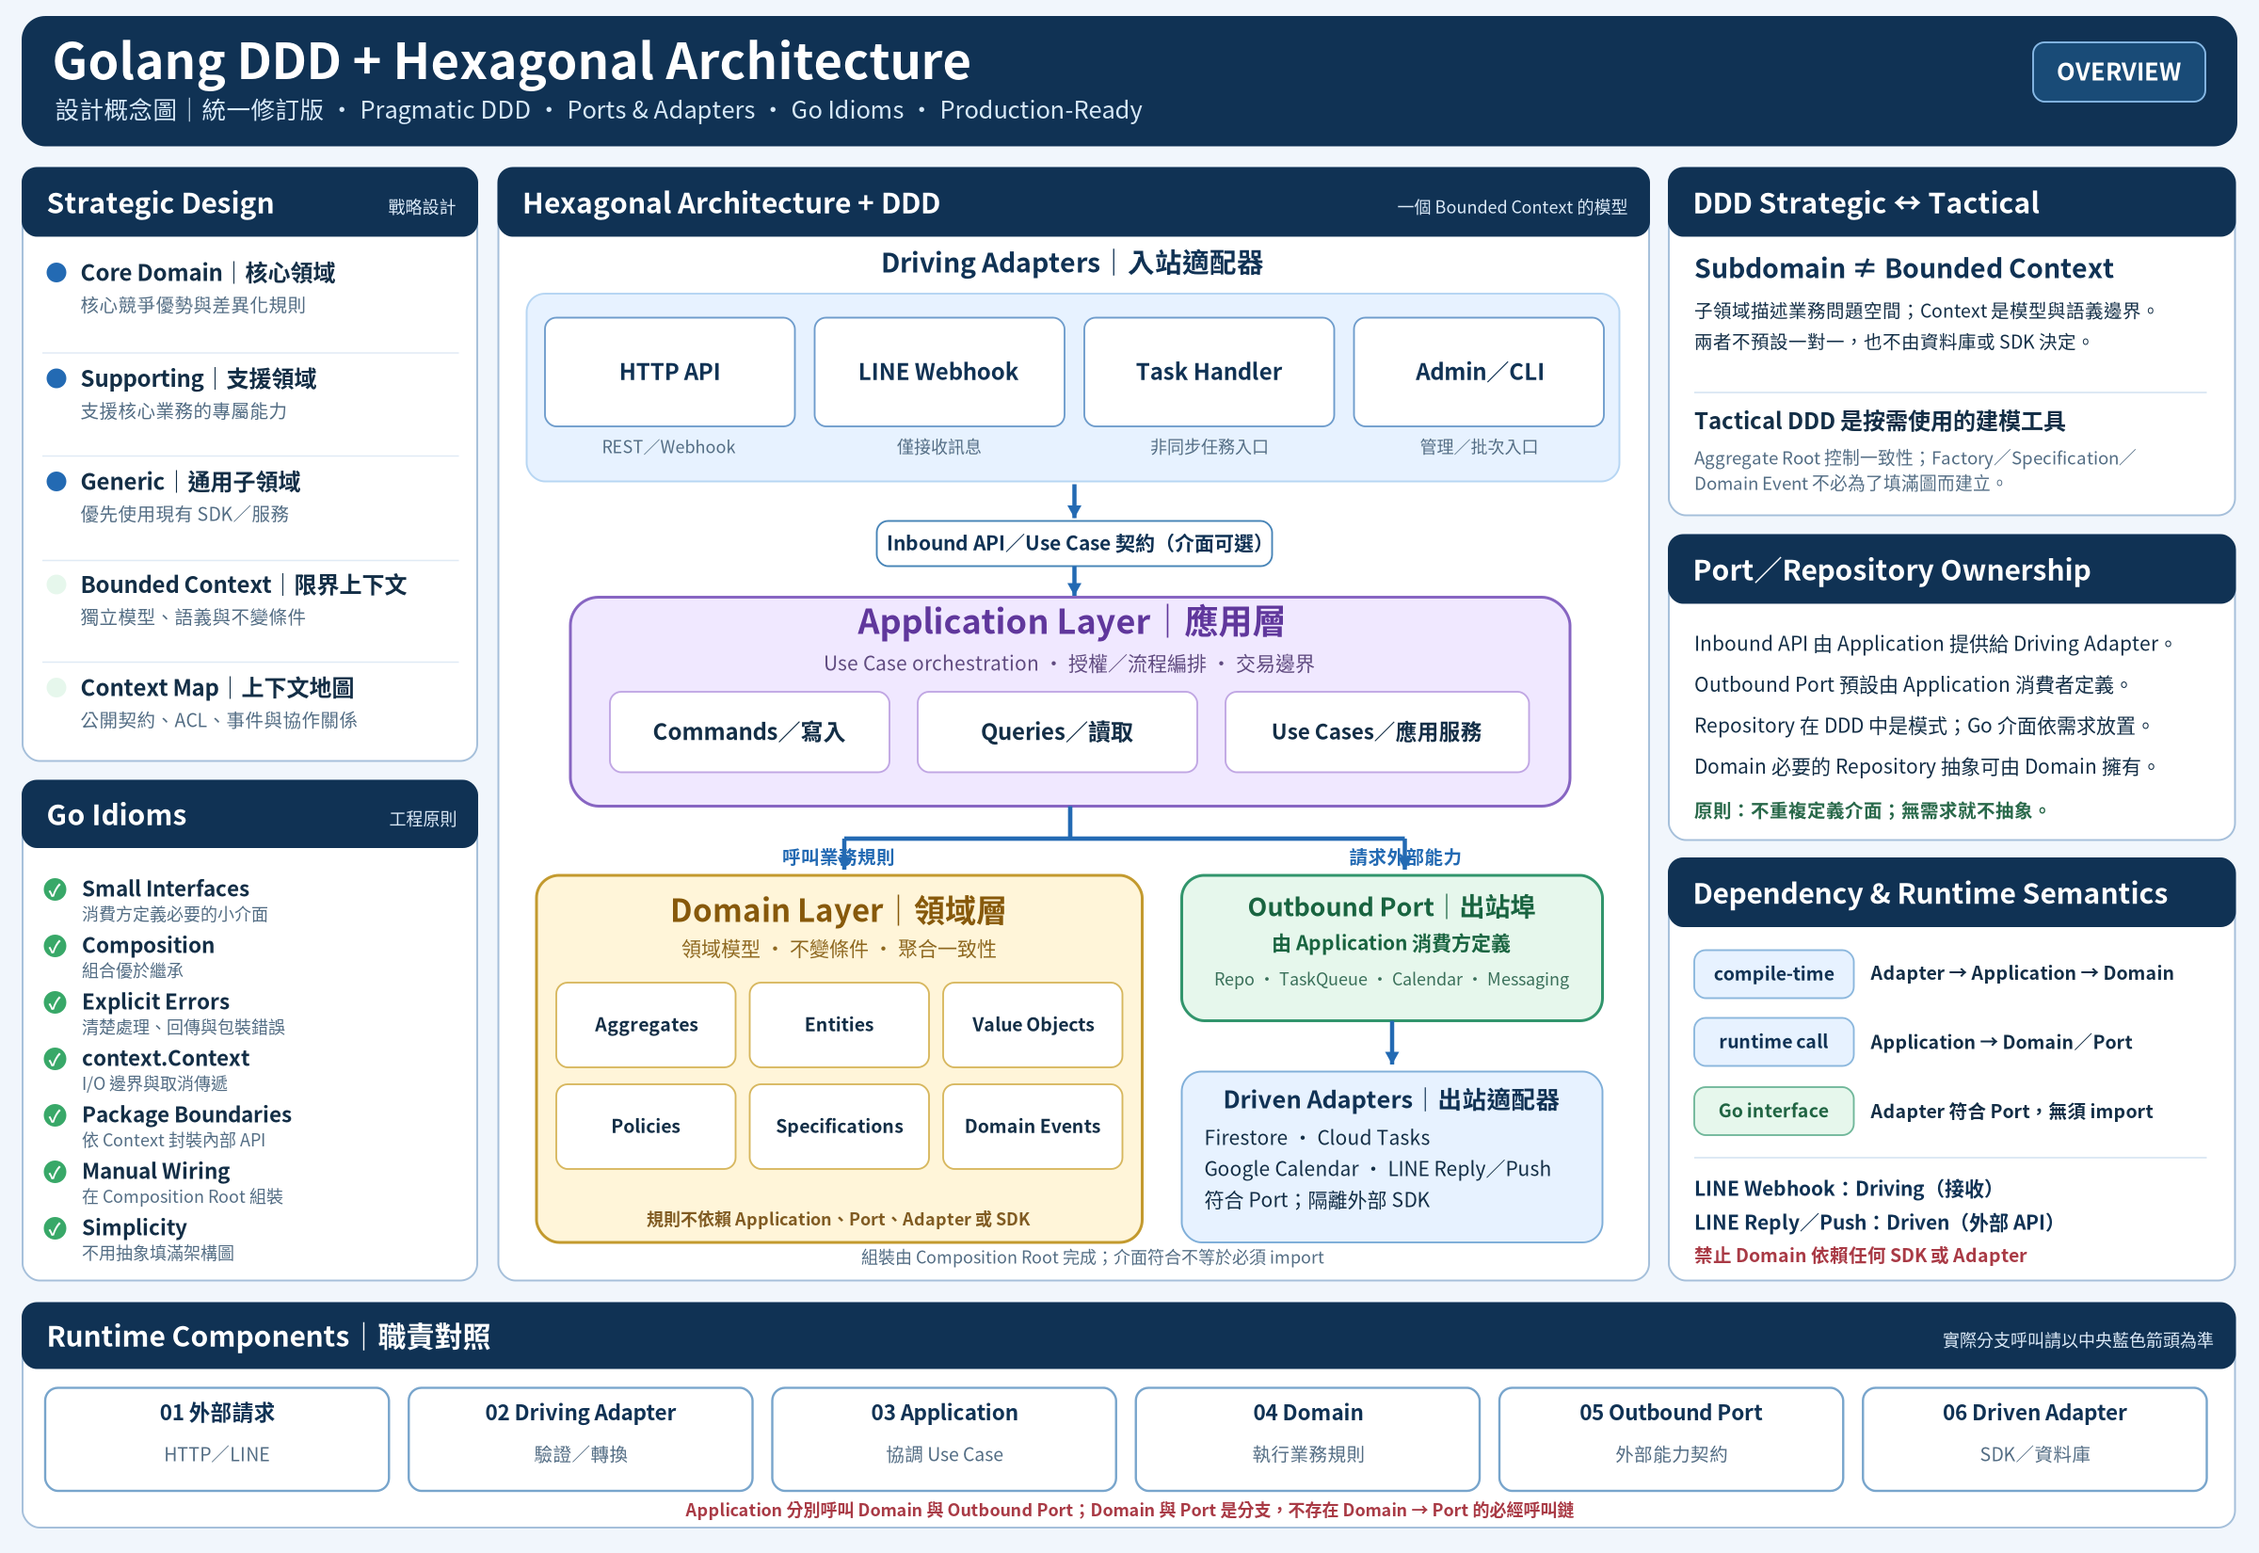
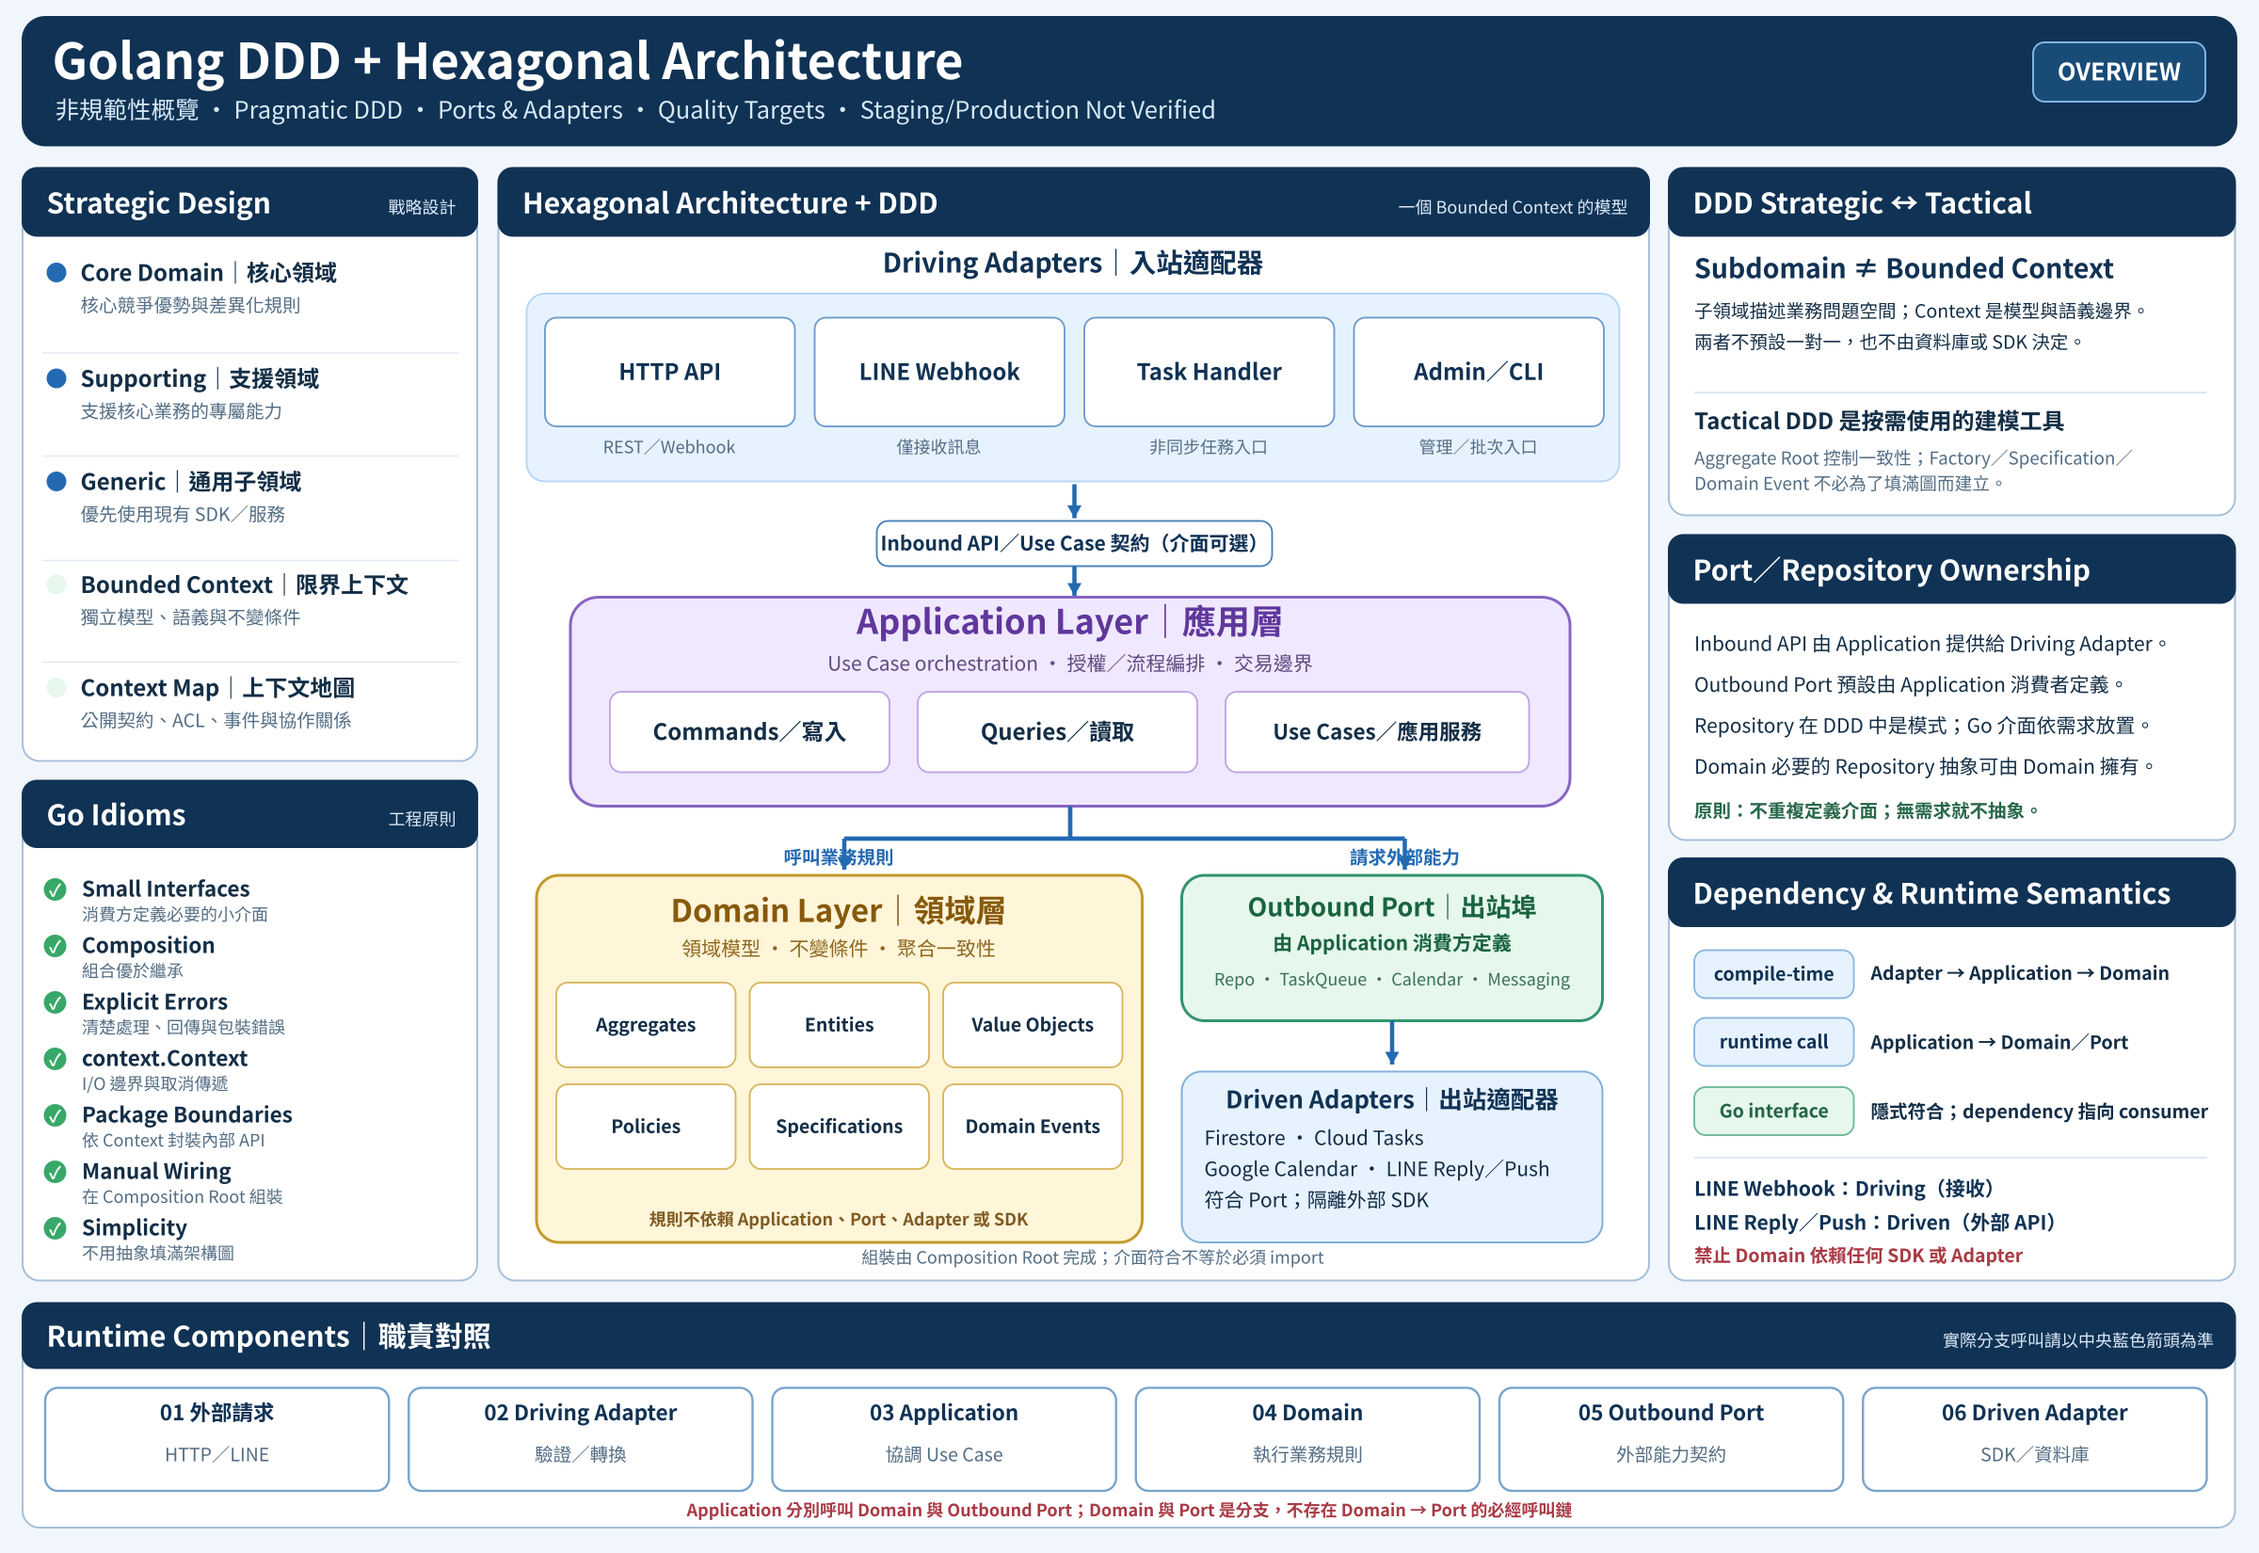
docs: align architecture assets and guards

diff --git a/tests/architecture/design_contract_test.go b/tests/architecture/design_contract_test.go
@@ -88,15 +88,51 @@ func TestDesignContract(t *testing.T) {
 	if config.Width != 2400 || config.Height != 1650 {
 		t.Fatalf("architecture overview asset size = %dx%d, want 2400x1650", config.Width, config.Height)
 	}
[2 lines of base64/hex data omitted]
 
-	svgPath := filepath.Join(root, "docs", "assets", "architecture", "go-ddd-hexagonal-architecture-overview.svg")
-	svgData, err := os.ReadFile(svgPath)
-	if err != nil {
-		t.Fatal(err)
+	assets := []struct {
+		name                   string
+		hash                   string
+		width, height, viewBox string
+		required               []string
+	}{
+		{
[1 lines of base64/hex data omitted]
+			width: "1600", height: "1100", viewBox: "0 0 1600 1100",
+			required: []string{"非規範性概覽", "Staging/Production Not Verified", "dependency 指向 consumer"},
+		},
+		{
[1 lines of base64/hex data omitted]
+			width: "3600", height: "2560", viewBox: "0 0 3600 2560",
+			required: []string{"非規範性參考圖", "Layer-first Modular Monolith", "internal/bootstrap"},
+		},
+		{
[1 lines of base64/hex data omitted]
+			width: "3200px", height: "2100px", viewBox: "0 0 3200 2100",
+			required: []string{"非規範性", "Layer-first Structure", "Staging/Production Not Verified", "unknown / manual reconciliation"},
+		},
 	}
[1 lines of base64/hex data omitted]
-	validateArchitectureSVG(t, svgData)
+	for _, asset := range assets {
+		t.Run(asset.name, func(t *testing.T) {
+			data, err := os.ReadFile(filepath.Join(root, "docs", "assets", "architecture", asset.name))
+			if err != nil {
+				t.Fatal(err)
+			}
+			assertSHA256(t, data, asset.hash)
+			validateArchitectureSVG(t, data, asset.width, asset.height, asset.viewBox)
+			text := string(data)
+			for _, marker := range asset.required {
+				if !strings.Contains(text, marker) {
+					t.Errorf("%s is missing semantic marker %q", asset.name, marker)
+				}
+			}
+			for _, marker := range []string{"Codex 可執行架構藍圖", "示意是規範性概念圖", "Production-Ready", "cmd/server/main.go", "internal/&lt;context&gt;"} {
+				if strings.Contains(text, marker) {
+					t.Errorf("%s contains obsolete or misleading marker %q", asset.name, marker)
+				}
+			}
+		})
+	}
 }
 
 func assertSHA256(t *testing.T, data []byte, want string) {
@@ -106,10 +142,12 @@ func assertSHA256(t *testing.T, data []byte, want string) {
 	}
 }
 
-func validateArchitectureSVG(t *testing.T, data []byte) {
+func validateArchitectureSVG(t *testing.T, data []byte, width, height, viewBox string) {
 	t.Helper()
 	decoder := xml.NewDecoder(bytes.NewReader(data))
 	rootSeen := false
+	titleSeen := false
+	descSeen := false
 	for {
 		token, err := decoder.Token()
 		if err == io.EOF {
@@ -131,11 +169,20 @@ func validateArchitectureSVG(t *testing.T, data []byte) {
 			for _, attr := range start.Attr {
 				attrs[attr.Name.Local] = attr.Value
 			}
-			for name, want := range map[string]string{"width": "1600", "height": "1100", "viewBox": "0 0 1600 1100"} {
+			for name, want := range map[string]string{"width": width, "height": height, "viewBox": viewBox, "role": "img", "lang": "zh-Hant"} {
 				if attrs[name] != want {
 					t.Fatalf("architecture blueprint SVG %s = %q, want %q", name, attrs[name], want)
 				}
 			}
+			if strings.TrimSpace(attrs["aria-label"]) == "" {
+				t.Fatal("architecture blueprint SVG must have a non-empty aria-label")
+			}
+		}
+		if start.Name.Local == "title" {
+			titleSeen = true
+		}
+		if start.Name.Local == "desc" {
+			descSeen = true
 		}
 		if start.Name.Local == "script" || start.Name.Local == "foreignObject" {
 			t.Fatalf("architecture blueprint SVG must not contain active element %q", start.Name.Local)
@@ -155,5 +202,8 @@ func validateArchitectureSVG(t *testing.T, data []byte) {
 	}
 	if !rootSeen {
 		t.Fatal("architecture blueprint SVG has no root element")
+	}
+	if !titleSeen || !descSeen {
+		t.Fatal("architecture blueprint SVG must contain title and desc metadata")
 	}
 }

diff --git a/tests/architecture/dependencies_test.go b/tests/architecture/dependencies_test.go
@@ -49,11 +49,14 @@ func TestDependencyDirection(t *testing.T) {
 			}
 			return nil
 		}},
-		{"outbound adapters only import ports, domain, infrastructure, and outbound peers", "../../internal/adapter/outbound", func(p string) error {
+		{"outbound adapters only import ports, domain, infrastructure, and approved shared codec", "../../internal/adapter/outbound", func(p string) error {
 			if !strings.HasPrefix(p, internalPath) {
 				return nil
 			}
-			for _, allowed := range []string{"application", "domain", "infrastructure", "adapter/outbound"} {
+			if p == internalPath+"adapter/outbound/google/api/codec" {
+				return nil
+			}
+			for _, allowed := range []string{"application", "domain", "infrastructure"} {
 				if strings.HasPrefix(p, internalPath+allowed) {
 					return nil
 				}
@@ -95,6 +98,26 @@ func TestDependencyDirection(t *testing.T) {
 			})
 		})
 	}
+}
+
+func TestOutboundAdapterPeerImportsStayWithinApprovedSharedCodec(t *testing.T) {
+	const outboundPrefix = internalPath + "adapter/outbound/"
+	const sharedCodec = outboundPrefix + "google/api/codec"
+	walkProductionGoFiles(t, "../../internal/adapter/outbound", func(path string, file *ast.File) {
+		for _, imp := range file.Imports {
+			value, err := strconv.Unquote(imp.Path.Value)
+			if err != nil {
+				t.Errorf("%s: invalid import %s: %v", path, imp.Path.Value, err)
+				continue
+			}
+			if !strings.HasPrefix(value, outboundPrefix) {
+				continue
+			}
+			if value != sharedCodec || !strings.Contains(filepath.ToSlash(path), "/internal/adapter/outbound/google/api/") {
+				t.Errorf("%s: outbound adapters must not couple to peer adapter %q", path, value)
+			}
+		}
+	})
 }
 
 // TestApplicationSerializationBoundary keeps transport serialization out of

diff --git a/tests/architecture/runtime_entrypoints_test.go b/tests/architecture/runtime_entrypoints_test.go
@@ -1,0 +1,50 @@
+package architecture
+
+import (
+	"go/ast"
+	"os"
+	"path/filepath"
+	"strconv"
+	"strings"
+	"testing"
+)
+
+func TestRuntimeEntrypointsOnlyEnterThroughBootstrap(t *testing.T) {
+	cmdRoot := "../../cmd"
+	entries, err := os.ReadDir(cmdRoot)
+	if err != nil {
+		t.Fatal(err)
+	}
+	runtimeCommands := map[string]bool{"webhook": true, "worker": true, "ops": true}
+	toolCommands := map[string]bool{"codexcheck": true, "codexplugins": true, "configcheck": true, "domainmodel": true}
+	for _, entry := range entries {
+		if !entry.IsDir() {
+			continue
+		}
+		name := entry.Name()
+		if toolCommands[name] {
+			continue
+		}
+		if !runtimeCommands[name] {
+			t.Errorf("cmd/%s is not classified as a runtime entrypoint or repository tool", name)
+			continue
+		}
+		root := filepath.Join(cmdRoot, name)
+		walkProductionGoFiles(t, root, func(path string, file *ast.File) {
+			for _, imp := range file.Imports {
+				value, err := strconv.Unquote(imp.Path.Value)
+				if err != nil {
+					t.Errorf("%s: invalid import %s: %v", path, imp.Path.Value, err)
+					continue
+				}
+				if isThirdParty(value) {
+					t.Errorf("%s: runtime entrypoint imports third-party package %q instead of entering through bootstrap", path, value)
+					continue
+				}
+				if strings.HasPrefix(value, modulePath+"/") && value != internalPath+"bootstrap" {
+					t.Errorf("%s: runtime entrypoint imports %q instead of entering through bootstrap", path, value)
+				}
+			}
+		})
+	}
+}

diff --git a/internal/domain/workspace-automation/aggregates/automation_request.go b/internal/domain/workspace-automation/aggregates/automation_request.go
@@ -71,13 +71,14 @@ func (a AutomationRequest) Output() valueobjects.Output          { return a.outp
 func (a AutomationRequest) Status() valueobjects.Status          { return a.status }
 func (a AutomationRequest) Revision() uint64                     { return a.revision }
 
-// PendingEvents returns a detached event snapshot for publication after persistence.
+// PendingEvents returns a detached snapshot of modeled Domain facts. This
+// tactical model does not itself persist or publish them.
 func (a AutomationRequest) PendingEvents() []events.AutomationEvent {
 	return append([]events.AutomationEvent(nil), a.pending...)
 }
 
-// AcknowledgeEvents clears modeled-only events after aggregate state has been
-// saved successfully. This context does not publish integration events yet.
+// AcknowledgeEvents clears modeled-only facts after aggregate state has been
+// saved successfully. It does not imply event publication.
 func (a *AutomationRequest) AcknowledgeEvents() {
 	if a != nil {
 		a.pending = nil

diff --git a/internal/adapter/inbound/cli/dependencies.go b/internal/adapter/inbound/cli/dependencies.go
@@ -21,8 +21,13 @@ import (
 	"golang.org/x/oauth2"
 )
 
+// The Runtime interfaces below are narrow effect dependencies consumed by
+// this driving CLI adapter. They are not Hexagonal inbound ports: the
+// Application service methods are the inbound use-case API. Runtime
+// construction belongs to the composition root, while method adaptation stays
+// in this adapter.
+//
 // PushRuntime is the narrow dependency required by the push command.
-// Runtime construction belongs to the composition root, not this adapter.
 type PushRuntime interface {
 	Push(ctx context.Context, recipient string, messages []messagingdelivery.Message, retryKey string) error
 	Close() error

diff --git a/internal/governance/domainmodel/domainmodel_test.go b/internal/governance/domainmodel/domainmodel_test.go
@@ -135,6 +135,9 @@ func TestValidateRepositoryFailures(t *testing.T) {
 		{"missing aggregate evidence", "aggregates[0].evidence[0]", func(m *DomainModel, _ *CapabilityMap) {
 			m.Contexts[0].Aggregates[0].Evidence = []string{"internal/missing-aggregate-evidence"}
 		}},
+		{"missing aggregate repository symbol", "aggregates[0].repository", func(m *DomainModel, _ *CapabilityMap) {
+			m.Contexts[0].Aggregates[0].Repository += "Missing"
+		}},
 		{"missing data ownership evidence", "data_ownership[0].evidence[0]", func(m *DomainModel, _ *CapabilityMap) {
 			m.Contexts[0].DataOwnership[0].Evidence = []string{"internal/missing-data-ownership-evidence"}
 		}},

diff --git a/internal/domain/workspace-automation/aggregates/automation_request_test.go b/internal/domain/workspace-automation/aggregates/automation_request_test.go
@@ -129,7 +129,7 @@ func TestInvalidTransitionsDoNotMutate(t *testing.T) {
 	}
 }
 
-func TestEventsAreOrderedAndDetached(t *testing.T) {
+func TestModeledFactsAreOrderedDetachedAndAcknowledged(t *testing.T) {
 	request, approval, _ := fixture(t)
 	if err := request.Approve(approval); err != nil {
 		t.Fatal(err)
@@ -156,7 +156,7 @@ func TestEventsAreOrderedAndDetached(t *testing.T) {
 	}
 	request.AcknowledgeEvents()
 	if len(request.PendingEvents()) != 0 {
-		t.Fatal("AcknowledgeEvents did not clear committed events")
+		t.Fatal("AcknowledgeEvents did not clear modeled facts")
 	}
 	scopes := request.RequiredScopes()
 	scopes[0] = "tampered"

diff --git a/internal/governance/domainmodel/validate.go b/internal/governance/domainmodel/validate.go
@@ -136,6 +136,11 @@ func ValidateRepository(root string, inventory *EndpointInventory, model *Domain
 			}
 		}
 		for j, aggregate := range context.Aggregates {
+			if aggregate.Repository != "" {
+				if err := requireGoSymbol(root, fmt.Sprintf("%s.aggregates[%d].repository", path, j), aggregate.Repository); err != nil {
+					return err
+				}
+			}
 			for k, evidence := range aggregate.Evidence {
 				if err := requireExistingPath(root, fmt.Sprintf("%s.aggregates[%d].evidence[%d]", path, j, k), evidence); err != nil {
 					return err

diff --git a/internal/adapter/outbound/google/cloud/firestore/workspace_oauth.go b/internal/adapter/outbound/google/cloud/firestore/workspace_oauth.go
@@ -45,6 +45,13 @@ type OAuthStore struct {
 	now    func() time.Time
 }
 
+var (
+	_ identity.OAuthSessionRepository = (*OAuthStore)(nil)
+	_ identity.ConnectionStore        = (*OAuthStore)(nil)
+	_ identity.IntegrationOutbox      = (*OAuthStore)(nil)
+	_ repositories.ConnectionReader   = (*OAuthStore)(nil)
+)
+
 func NewOAuthStore(client *sdk.Client, keys *oauth.Keyring) (*OAuthStore, error) {
 	if client == nil || keys == nil {
 		return nil, errors.New("Firestore client and OAuth keyring are required")

diff --git a/internal/domain/workspace-automation/events/automation_request_events.go b/internal/domain/workspace-automation/events/automation_request_events.go
@@ -3,7 +3,8 @@ package events
 
 import valueobjects "github.com/963sup/linebot-platform/internal/domain/workspace-automation/value-objects"
 
-// AutomationEvent is a marker for workspace automation domain events.
+// AutomationEvent marks an in-memory modeled Domain fact. No persistence or
+// publication contract is implied by this tactical type.
 type AutomationEvent interface{ AutomationEvent() }
 
 type AutomationRequested struct {

diff --git a/internal/adapter/outbound/google/cloud/cloudtasks/queue.go b/internal/adapter/outbound/google/cloud/cloudtasks/queue.go
@@ -37,6 +37,8 @@ type Queue struct {
 	propagator propagation.TextMapPropagator
 }
 
+var _ ingestion.EventQueue = (*Queue)(nil)
+
 // NewQueue configures a native Cloud Tasks client. Only a previously
 // authorized OIDC service account may invoke the private worker; IAM must
 // separately grant Cloud Tasks task creation and Cloud Run invoker roles.
